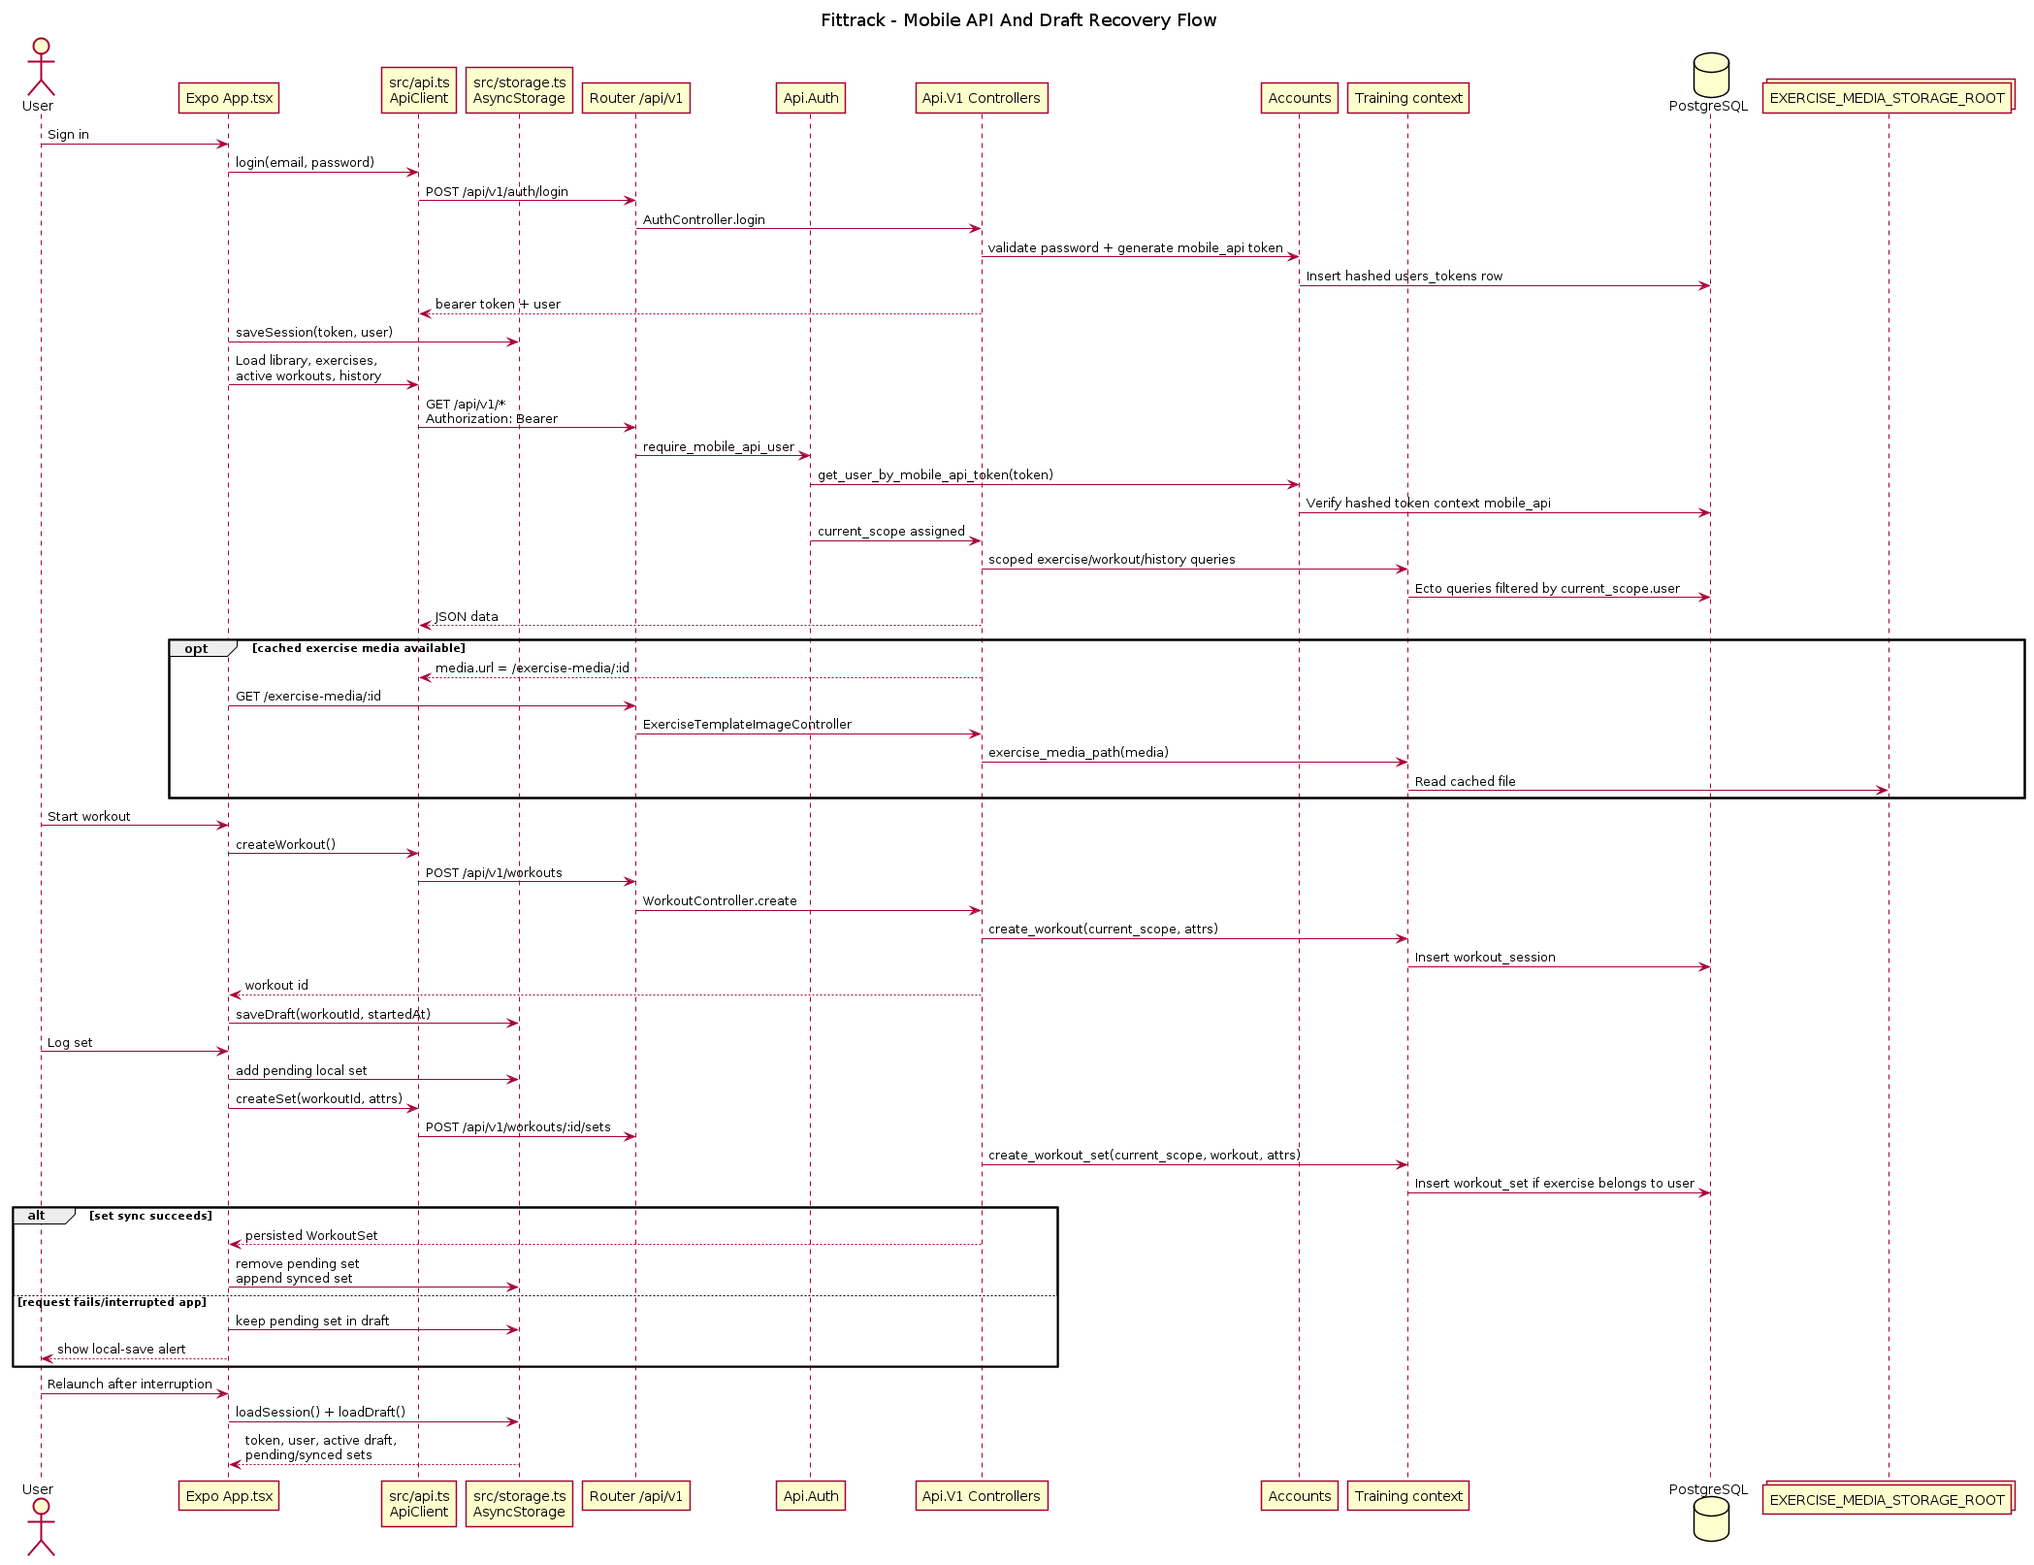
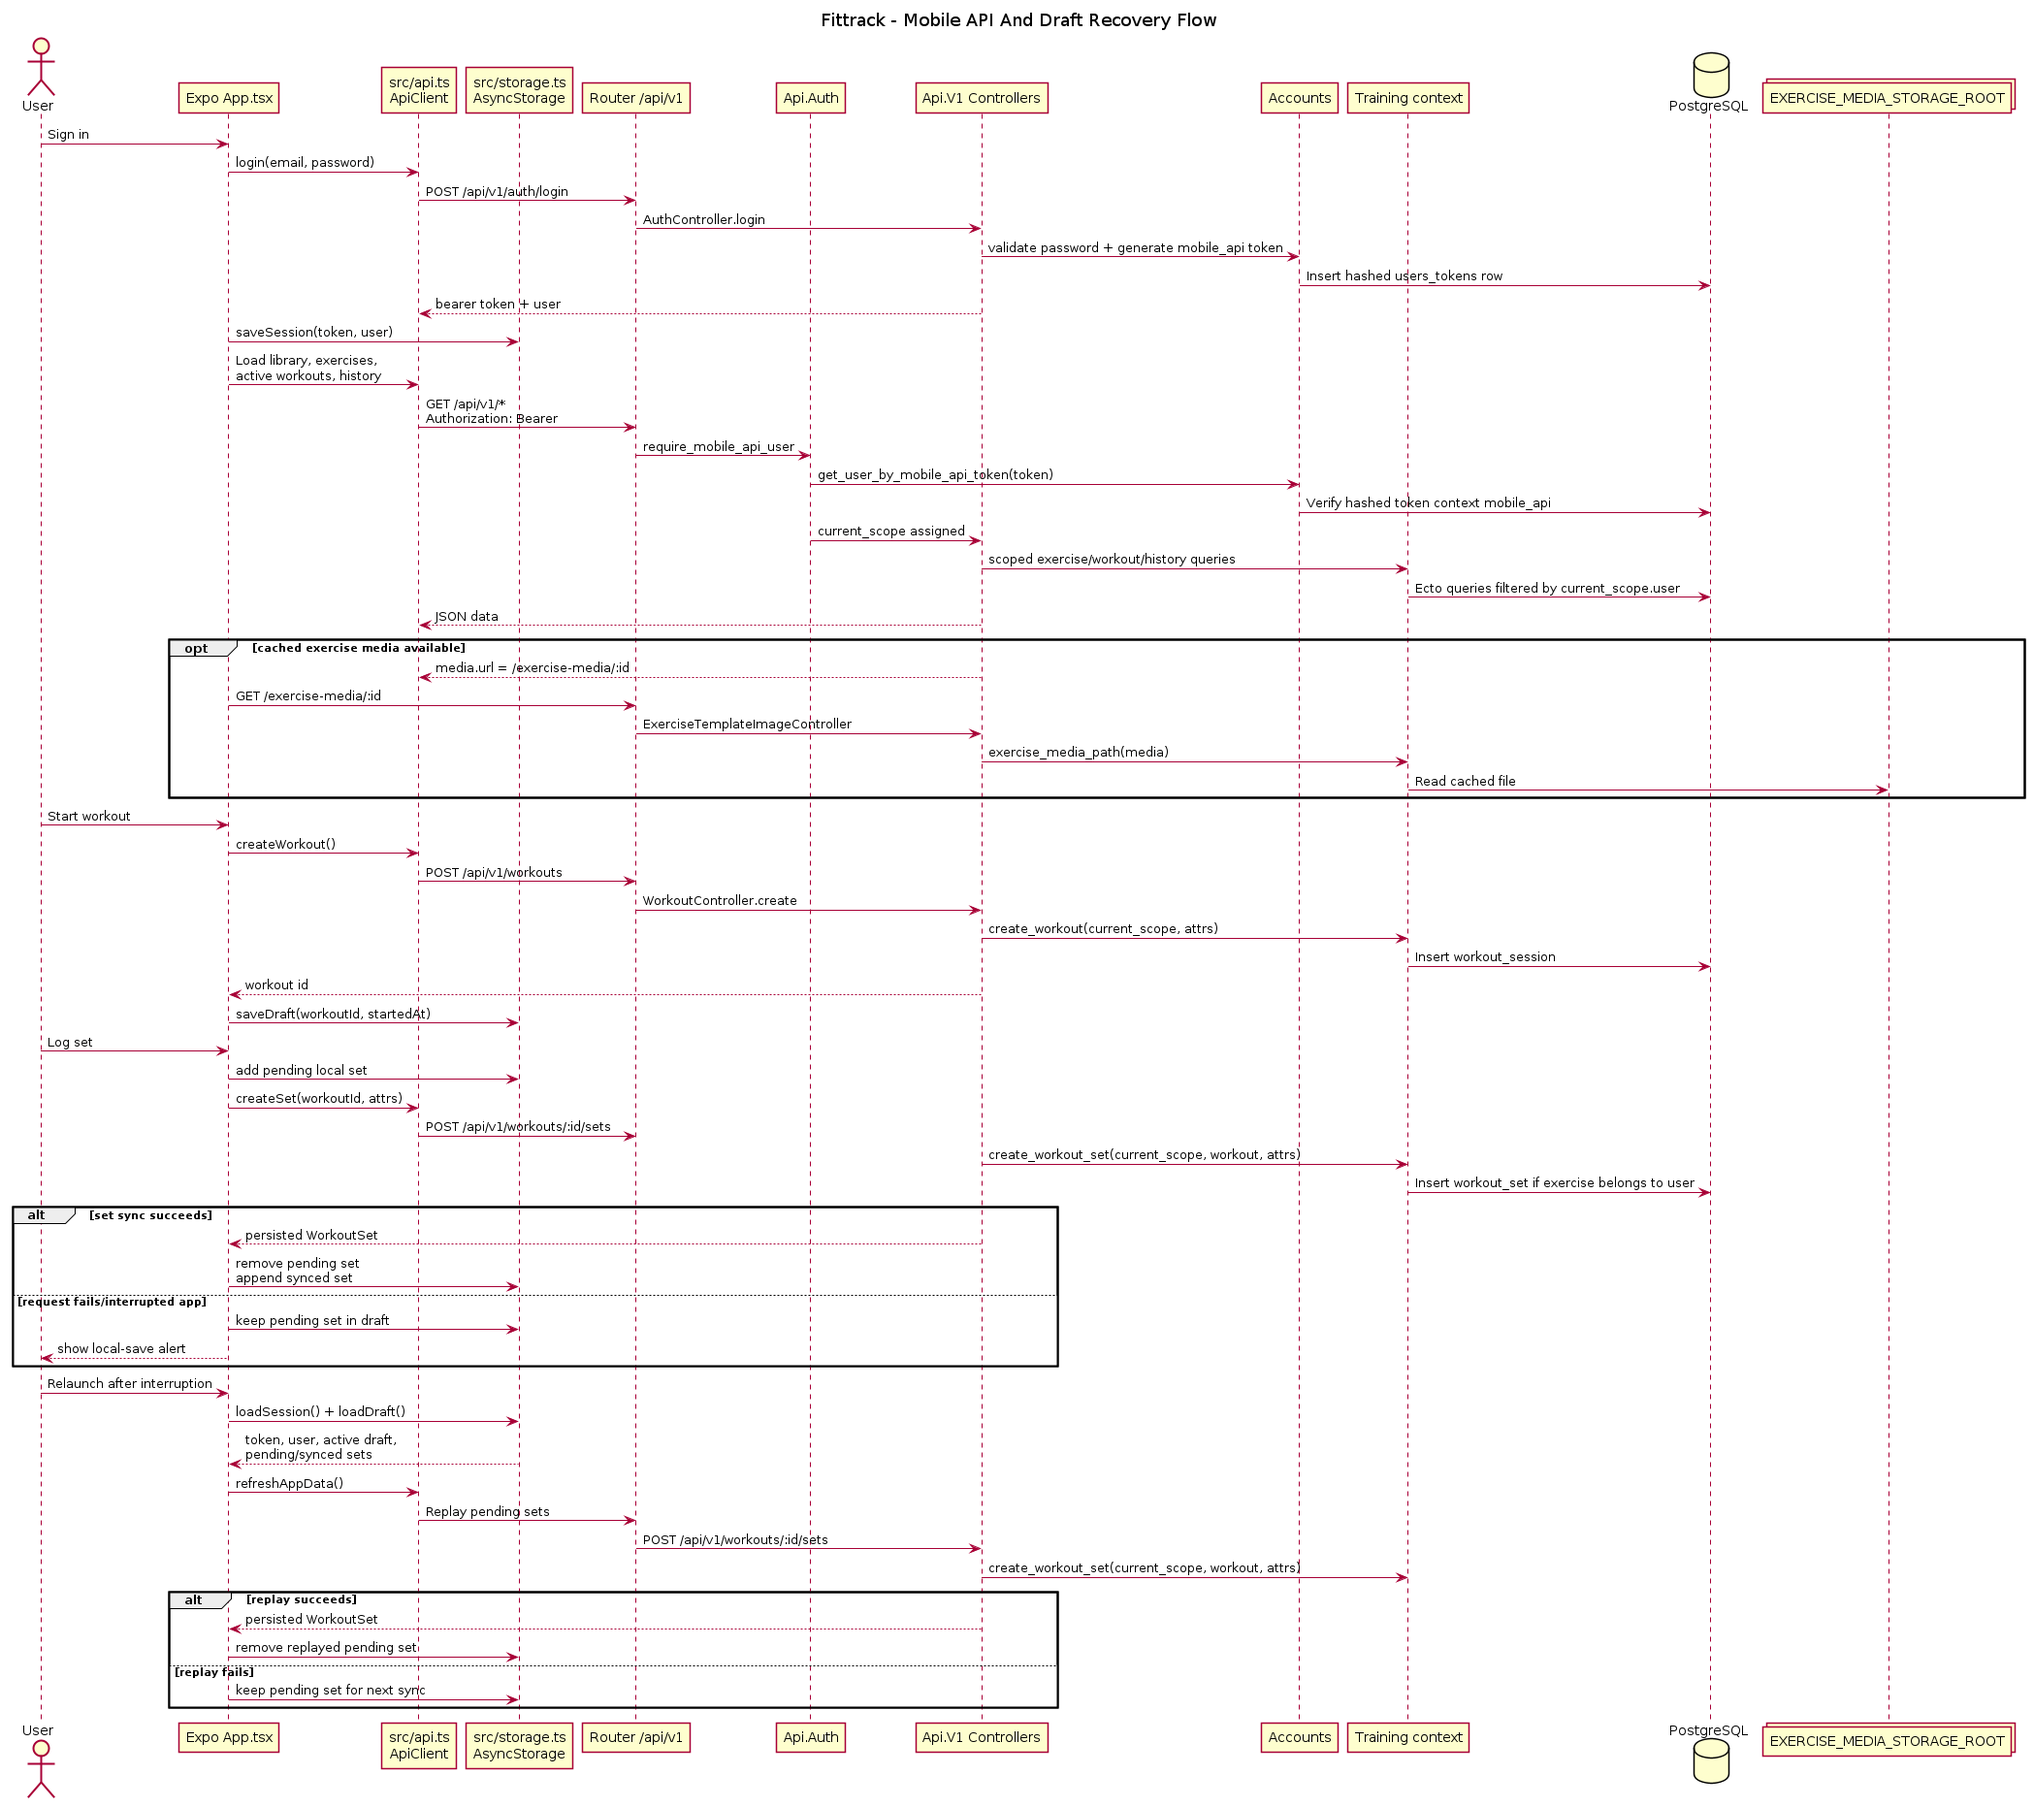
Fix mobile API search and pending set replay

diff --git a/mobile/App.tsx b/mobile/App.tsx
@@ -17,6 +17,7 @@ import { daysAgo, isoDate } from "./src/date";
 import { ActiveWorkoutDraft, clearSession, loadDraft, loadSession, saveDraft, saveSession } from "./src/storage";
 
 type Tab = "library" | "workout" | "history";
+type PendingSet = ActiveWorkoutDraft["pendingSets"][number];
 
 export default function App() {
   const [booting, setBooting] = useState(true);
@@ -74,19 +75,66 @@ export default function App() {
       setExercises(exerciseData);
       setHistory(historyData);
 
+      let nextDraft = draft;
+
       if (!draft && activeData.length > 0) {
         const active = activeData[0];
-        setDraft({
+        nextDraft = {
           workoutId: active.id,
           startedAt: active.started_at,
           notes: active.notes || "",
           pendingSets: [],
           syncedSets: active.sets
-        });
+        };
+      }
+
+      const replay = await retryPendingSets(nextDraft);
+      setDraft(replay.draft);
+
+      if (replay.syncedCount > 0) {
+        setHistory(await api.history(daysAgo(30), isoDate(new Date())));
+      }
+
+      if (replay.failedCount > 0) {
+        Alert.alert("Pending sets still saved locally", `${replay.failedCount} set(s) will retry on the next sync.`);
       }
     } finally {
       setLoading(false);
     }
+  }
+
+  async function retryPendingSets(currentDraft: ActiveWorkoutDraft | null) {
+    if (!currentDraft?.workoutId || currentDraft.pendingSets.length === 0) {
+      return { draft: currentDraft, syncedCount: 0, failedCount: 0 };
+    }
+
+    const syncedSets: WorkoutSet[] = [];
+    const remainingSets: PendingSet[] = [];
+
+    for (const pendingSet of currentDraft.pendingSets) {
+      try {
+        const syncedSet = await api.createSet(currentDraft.workoutId, {
+          exercise_id: pendingSet.exerciseId,
+          weight: pendingSet.weight,
+          reps: pendingSet.reps,
+          kind: pendingSet.kind
+        });
+
+        syncedSets.push(syncedSet);
+      } catch (_error) {
+        remainingSets.push(pendingSet);
+      }
+    }
+
+    return {
+      draft: {
+        ...currentDraft,
+        pendingSets: remainingSets,
+        syncedSets: [...currentDraft.syncedSets, ...syncedSets]
+      },
+      syncedCount: syncedSets.length,
+      failedCount: remainingSets.length
+    };
   }
 
   async function handleLogin() {

diff --git a/docs/FIXED_WORK.md b/docs/FIXED_WORK.md
@@ -20,6 +20,7 @@ or materially addressed on the recent branches.
 - Serialized only app-cached exercise media without runtime WGER dependencies.
 - Added context-level pagination and cross-user authorization enforcement.
 - Added an Expo mobile client with login, exercise import, set logging, history, and persistent active-workout recovery.
+- Added pending-set replay so locally saved failed set entries retry on the next mobile sync.
 - Added API integration tests and mobile development documentation.
 - Verified with 269 tests, 0 failures, and a successful TypeScript check.
 - Recorded Expo dependency-tree audit findings for follow-up without applying unsafe forced upgrades.

diff --git a/docs/MOBILE.md b/docs/MOBILE.md
@@ -100,7 +100,7 @@ The Expo client persists:
 - active workout draft
 - pending sets that could not be synced
 
-Drafts are stored with `@react-native-async-storage/async-storage`. If the app is interrupted, the next launch reloads the active draft and resumes logging. When a set sync fails, it remains in `pendingSets` until the user retries by continuing the workout.
+Drafts are stored with `@react-native-async-storage/async-storage`. If the app is interrupted, the next launch reloads the active draft and resumes logging. When a set sync fails, it remains in `pendingSets` and is replayed during the next mobile refresh/sync.
 
 ## Release Workflow
 

diff --git a/docs/FUTURE_TASKS.md b/docs/FUTURE_TASKS.md
@@ -60,7 +60,7 @@ stay below until a promoted task is completed.
 - [TODO] Improve FitTrack mobile reliability
 
   Scope:
-  - add resilient retry and sync-queue handling for failed API requests and pending sets
+  - add resilient retry/backoff handling for broader failed API requests
   - improve offline access for recently viewed exercises
   - expand active-workout recovery beyond the current draft and pending-set persistence
   - add mobile media caching and cache invalidation
